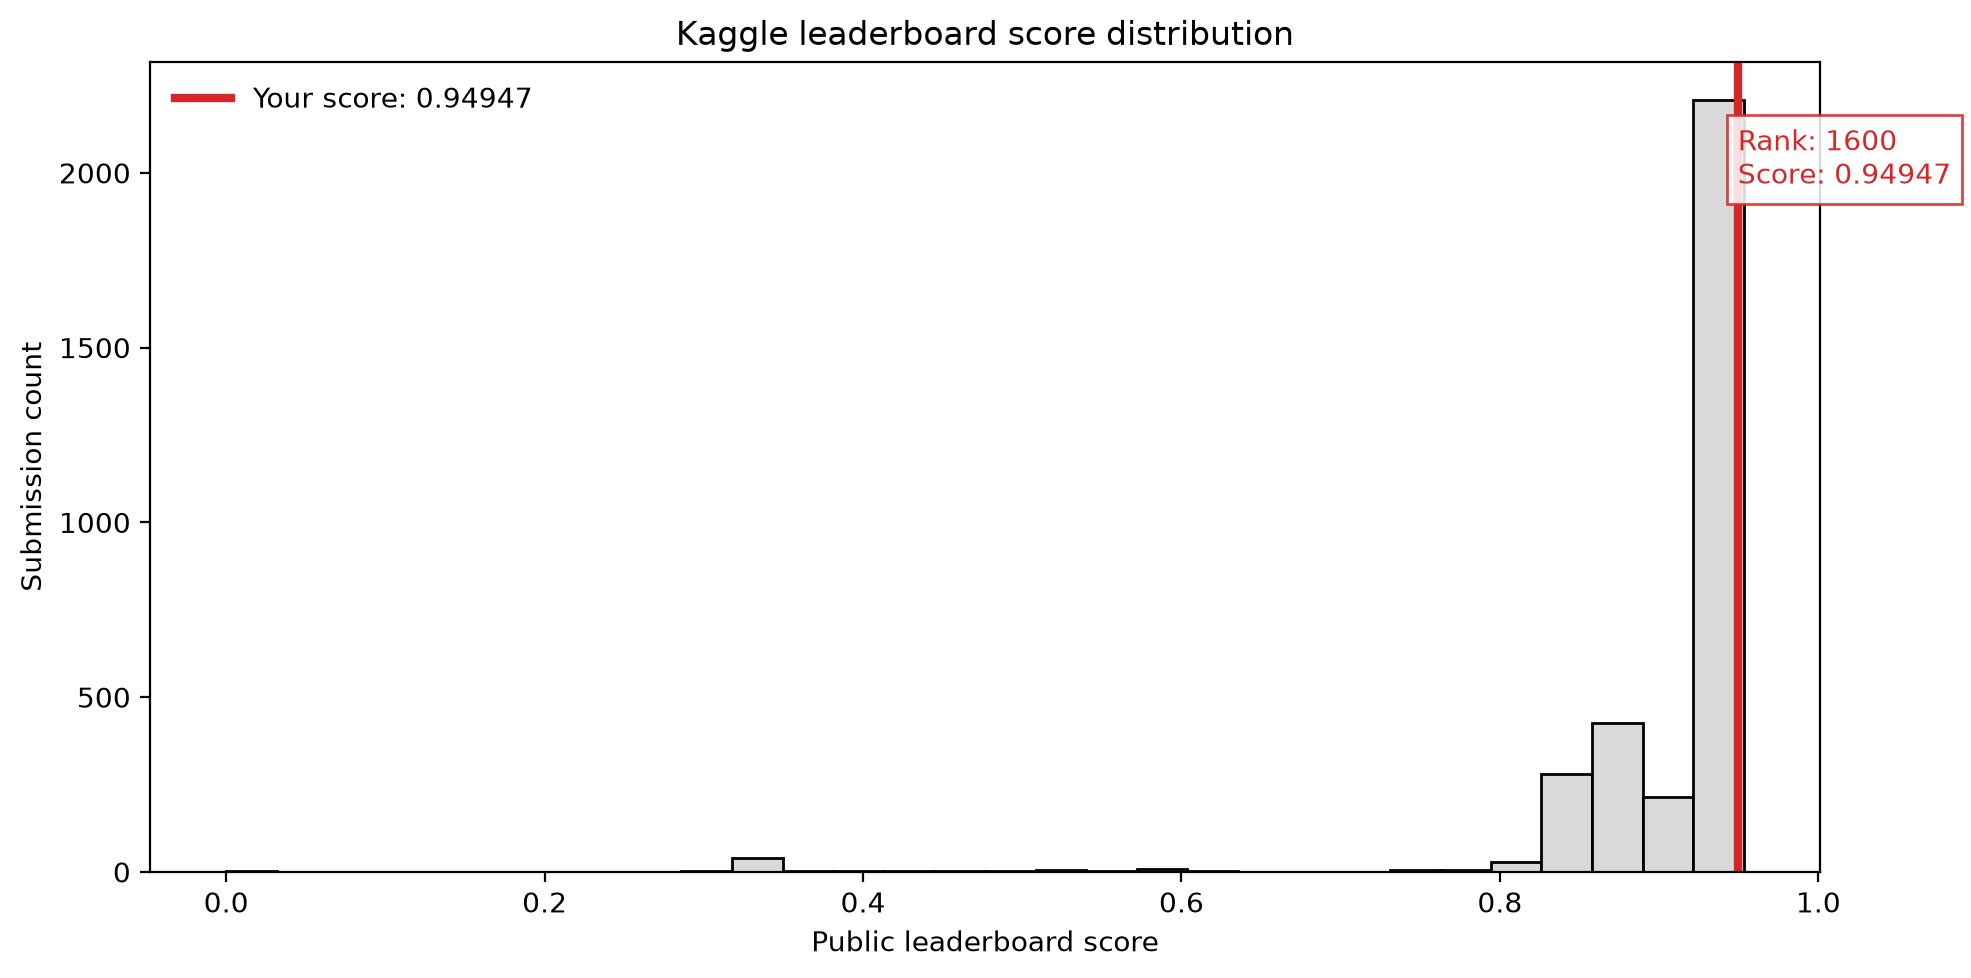
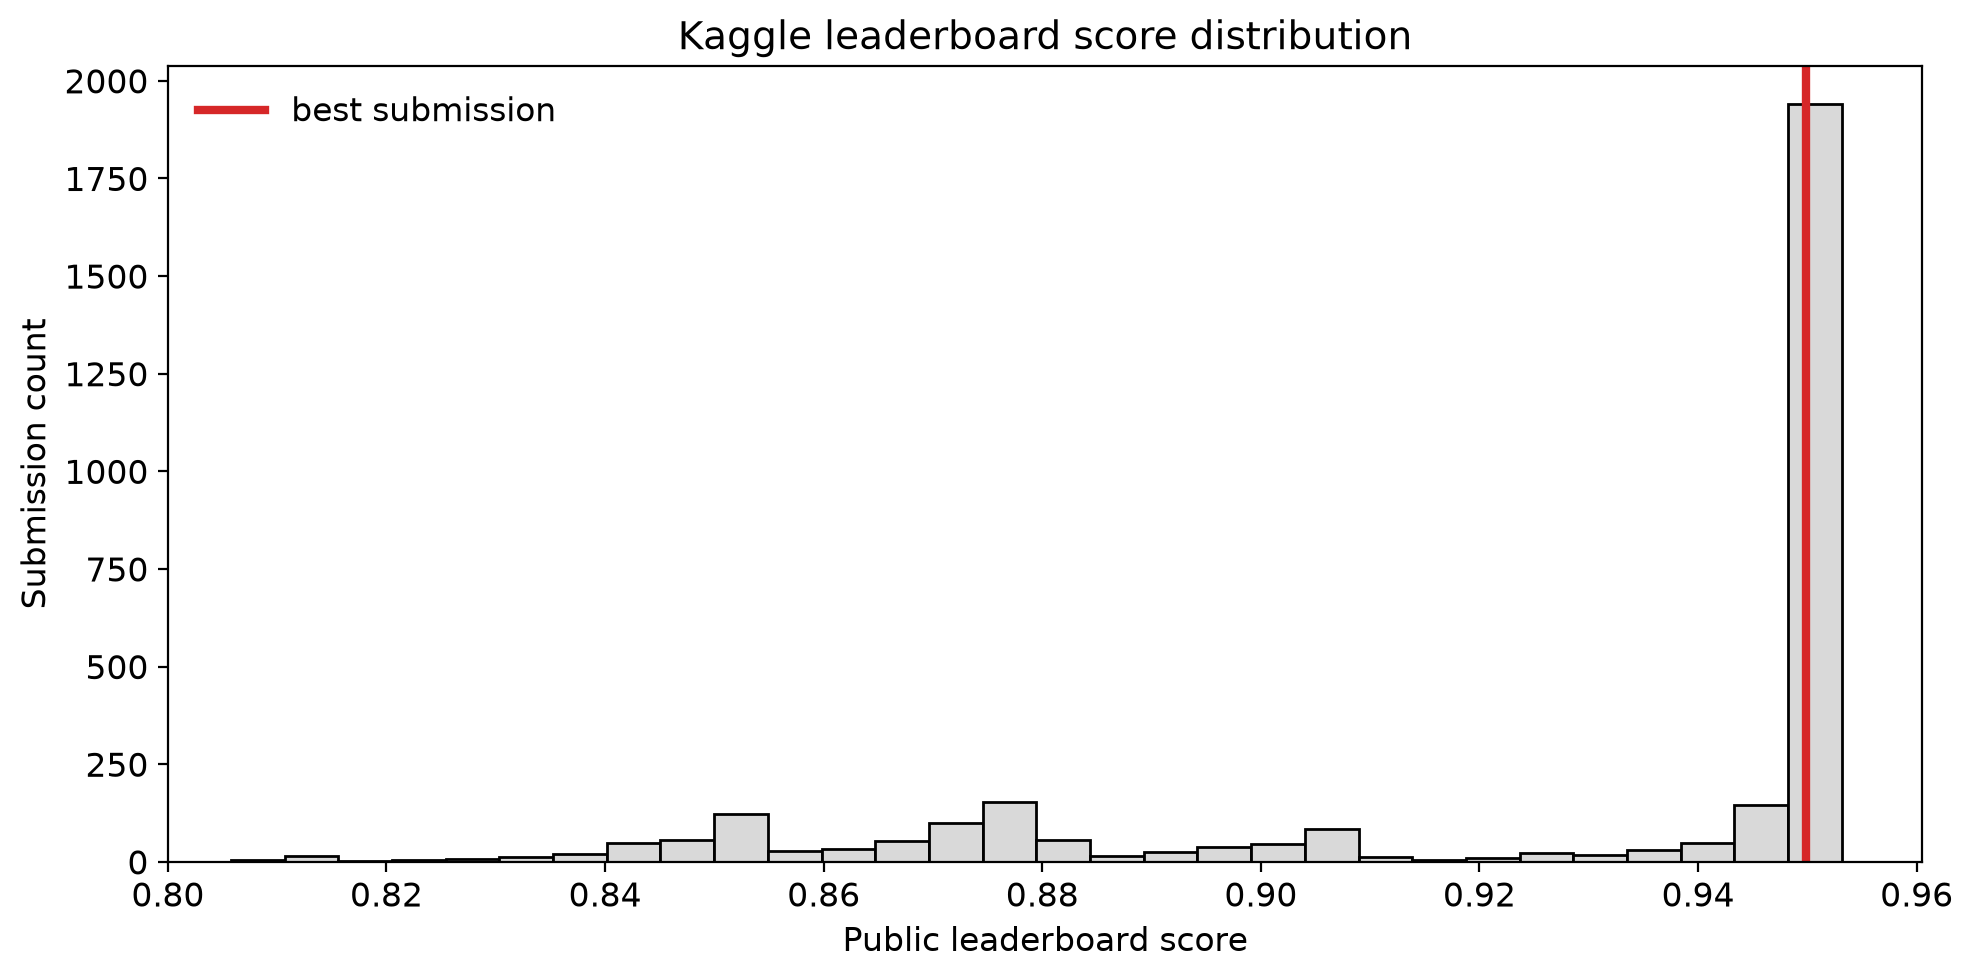
chore: automated update of leaderboard rank badge [skip ci]

Changed region(s): [[0.0, 0.0, 1.0, 0.9816]]

diff --git a/README.md b/README.md
@@ -3,7 +3,7 @@
 [![Verify submission](https://github.com/gperdrizet/student-health-risk/actions/workflows/verify_submission.yml/badge.svg)](https://github.com/gperdrizet/student-health-risk/actions/workflows/verify_submission.yml) [![Submit to Kaggle](https://github.com/gperdrizet/student-health-risk/actions/workflows/submit.yml/badge.svg)](https://github.com/gperdrizet/student-health-risk/actions/workflows/submit.yml)
 
 <!-- KAGGLE_BADGE_START -->
-![Kaggle Rank](https://img.shields.io/badge/Kaggle%20rank-1600-blue?logo=kaggle&logoColor=white) ![Best Leaderboard Balanced Accuracy](https://img.shields.io/badge/Best%20leaderboard%20BA-Pending-blue?logo=kaggle&logoColor=white)
+![Kaggle Rank](https://img.shields.io/badge/Kaggle%20rank-1095-blue?logo=kaggle&logoColor=white) ![Best Leaderboard Balanced Accuracy](https://img.shields.io/badge/Best%20leaderboard%20BA-0.94991-blue?logo=kaggle&logoColor=white)
 <!-- KAGGLE_BADGE_END -->
 
 <!-- KAGGLE_RANK_PLOT_START -->
